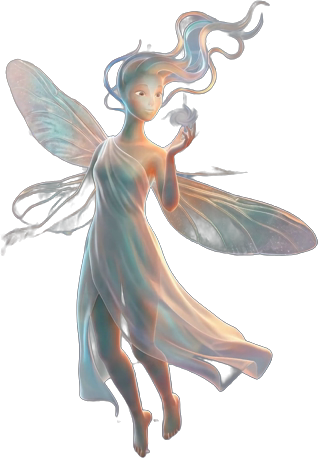
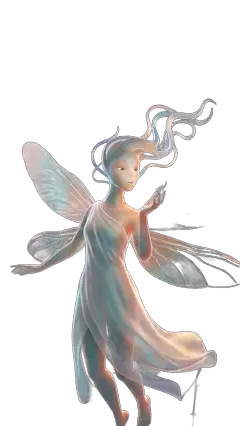
Juno on the phone: play her real clip, not a zooming still (#228)
Drive her real motion with an animated true-alpha WebP (AI-matted idle loop from the packed colour+matte clip) played by expo-image, which handles animated WebP with transparency on iOS and Android. Dropped the scale/turn breathe (the zoom); kept aura + sparkles + gentle float as ambient motion. Reduce-motion holds her on a matching-aspect still poster.

diff --git a/phone-app/src/ui/components/Juno.tsx b/phone-app/src/ui/components/Juno.tsx
@@ -1,27 +1,24 @@
 // Juno.tsx
-// Juno — the DreamLayer assistant — rendered "alive" on the phone.
+// Juno — the DreamLayer assistant — alive on the phone.
 //
-// The web build composites a packed color+matte video to a canvas for true
-// transparency (assets/juno/juno.js). React Native has no <video> compositor,
-// so here she's a transparent PNG (assets/juno.png, AI-matted full body) that
-// we make *feel* living with RN Animated: a slow float bob, a breathing scale,
-// a soft turning drift, a pulsing aura behind her, and a few rising sparkles.
-// Everything runs on the native driver (transform/opacity only) so it stays
-// smooth and never blocks JS.
+// She's a real animated clip, not a still: assets/juno.webp is an animated,
+// true-alpha WebP (her AI-matted idle loop — she drifts, her wings and hair and
+// dress move) played by expo-image, which handles animated WebP with
+// transparency on both iOS and Android. Around her we keep a soft, state-tinted
+// aura and a few rising sparkles, plus a gentle float — the *ambient* motion,
+// while the clip itself carries her performance.
 //
-// Reduce-motion (AccessibilityInfo) → she holds still with a faint steady aura.
-// `state` (idle | thinking | success) tints the aura and her glow, mirroring
-// the web sprite's data-state.
+// Reduce-motion (AccessibilityInfo) → she holds still on the first frame
+// (assets/juno.png) with a faint steady aura, and nothing loops.
+// `state` (idle | thinking | success) tints the aura and her glow.
 //
-//   <Juno size={180} state="thinking" />
-//
-// New Architecture (RN 0.81): Animated.loop/sequence/parallel + useNativeDriver
-// are unchanged; Easing is re-exported from react-native.
+//   <Juno size={135} state="thinking" />
 import React, { useEffect, useMemo, useRef, useState } from "react";
 import {
-  View, Animated, Easing, StyleSheet, AccessibilityInfo, Platform,
+  View, Animated, Easing, StyleSheet, AccessibilityInfo, Platform, Image as RNImage,
   type ViewStyle, type StyleProp,
 } from "react-native";
+import { Image as ExpoImage } from "expo-image";
 import { colors } from "../theme/colors";
 
 export type JunoState = "idle" | "thinking" | "success";
@@ -44,8 +41,11 @@ const SPARKS = [
   { x: 0.08, y: 0.48, r: 2.2, delay: 300,  rise: 16, dur: 3600 },
 ];
 
+const ANIM = require("../../../assets/juno.webp");   // animated true-alpha loop
+const STILL = require("../../../assets/juno.png");    // first-frame poster
+
 export function Juno({
-  size = 180,
+  size = 135,
   state = "idle",
   style,
 }: {
@@ -54,7 +54,7 @@ export function Juno({
   style?: StyleProp<ViewStyle>;
 }) {
   const aura = AURA_BY_STATE[state] ?? colors.accentMemory;
-  const h = Math.round(size * 458 / 318);   // preserve the matte's aspect ratio
+  const h = Math.round(size * 426 / 240);   // the clip's aspect (poster matches)
 
   const [reduce, setReduce] = useState(false);
   useEffect(() => {
@@ -64,30 +64,17 @@ export function Juno({
     return () => { alive = false; sub?.remove?.(); };
   }, []);
 
-  // Motion values — created once, driven by loops below.
-  const float   = useRef(new Animated.Value(0)).current;  // 0..1 bob
-  const breathe = useRef(new Animated.Value(0)).current;  // 0..1 scale
-  const turn    = useRef(new Animated.Value(0)).current;  // -1..1 sway
-  const auraA   = useRef(new Animated.Value(0.35)).current;
-  const sparks  = useMemo(() => SPARKS.map((s) => ({ ...s, v: new Animated.Value(0) })), []);
+  // Ambient motion values — the clip carries her body; these carry the mood.
+  const float  = useRef(new Animated.Value(0)).current;   // 0..1 gentle bob
+  const auraA  = useRef(new Animated.Value(0.35)).current;
+  const sparks = useMemo(() => SPARKS.map((s) => ({ ...s, v: new Animated.Value(0) })), []);
 
   useEffect(() => {
-    if (reduce) {
-      float.setValue(0.5); breathe.setValue(0.5); turn.setValue(0); auraA.setValue(0.28);
-      return;
-    }
-    const pingpong = (v: Animated.Value, to: number, dur: number) =>
-      Animated.loop(Animated.sequence([
-        Animated.timing(v, { toValue: to, duration: dur, easing: Easing.inOut(Easing.sin), useNativeDriver: true }),
-        Animated.timing(v, { toValue: 0,  duration: dur, easing: Easing.inOut(Easing.sin), useNativeDriver: true }),
-      ]));
-
+    if (reduce) { float.setValue(0.5); auraA.setValue(0.26); return; }
     const loops = [
-      pingpong(float, 1, 2600),
-      pingpong(breathe, 1, 3300),
       Animated.loop(Animated.sequence([
-        Animated.timing(turn, { toValue: 1,  duration: 4200, easing: Easing.inOut(Easing.sin), useNativeDriver: true }),
-        Animated.timing(turn, { toValue: -1, duration: 4200, easing: Easing.inOut(Easing.sin), useNativeDriver: true }),
+        Animated.timing(float, { toValue: 1, duration: 3200, easing: Easing.inOut(Easing.sin), useNativeDriver: true }),
+        Animated.timing(float, { toValue: 0, duration: 3200, easing: Easing.inOut(Easing.sin), useNativeDriver: true }),
       ])),
       Animated.loop(Animated.sequence([
         Animated.timing(auraA, { toValue: 0.5,  duration: 2600, easing: Easing.inOut(Easing.sin), useNativeDriver: true }),
@@ -101,17 +88,17 @@ export function Juno({
     ];
     loops.forEach((l) => l.start());
     return () => loops.forEach((l) => l.stop());
-  }, [reduce, float, breathe, turn, auraA, sparks]);
+  }, [reduce, float, auraA, sparks]);
 
-  const translateY = float.interpolate({ inputRange: [0, 1], outputRange: [6, -10] });
-  const scale      = breathe.interpolate({ inputRange: [0, 1], outputRange: [0.99, 1.02] });
-  const rotate     = turn.interpolate({ inputRange: [-1, 1], outputRange: ["-2.2deg", "2.2deg"] });
-  const translateX = turn.interpolate({ inputRange: [-1, 1], outputRange: [-4, 4] });
+  const translateY = float.interpolate({ inputRange: [0, 1], outputRange: [5, -6] });
+
+  const glow = Platform.OS === "ios"
+    ? { shadowColor: aura, shadowOpacity: state === "idle" ? 0.3 : 0.5, shadowRadius: 18, shadowOffset: { width: 0, height: 0 } }
+    : null;
 
   return (
     <View style={[{ width: size, height: h, alignItems: "center", justifyContent: "center" }, style]}>
-      {/* Aura — three soft concentric glows so the bloom reads on Android too
-          (where shadowRadius doesn't paint). Pulses with auraA. */}
+      {/* Aura — three soft concentric glows so the bloom reads on Android too. */}
       <Animated.View pointerEvents="none" style={[StyleSheet.absoluteFill, styles.center, { opacity: auraA }]}>
         <View style={[styles.glow, { width: size * 0.92, height: size * 0.92, borderRadius: size, backgroundColor: aura, opacity: 0.16 }]} />
         <View style={[styles.glow, { width: size * 0.62, height: size * 0.62, borderRadius: size, backgroundColor: aura, opacity: 0.20 }]} />
@@ -138,19 +125,13 @@ export function Juno({
         );
       })}
 
-      {/* Juno herself. */}
-      <Animated.Image
-        source={require("../../../assets/juno.png")}
-        accessibilityLabel="Juno, the DreamLayer assistant"
-        resizeMode="contain"
-        style={{
-          width: size, height: h,
-          transform: [{ translateY }, { translateX }, { rotate }, { scale }],
-          ...(Platform.OS === "ios"
-            ? { shadowColor: aura, shadowOpacity: state === "idle" ? 0.35 : 0.55, shadowRadius: 18, shadowOffset: { width: 0, height: 0 } }
-            : null),
-        }}
-      />
+      {/* Juno herself — the animated clip, gently floating. Still poster when
+          reduce-motion is on. */}
+      <Animated.View style={{ transform: [{ translateY }], ...(glow || {}) }}>
+        {reduce
+          ? <RNImage source={STILL} accessibilityLabel="Juno, the DreamLayer assistant" resizeMode="contain" style={{ width: size, height: h }} />
+          : <ExpoImage source={ANIM} accessibilityLabel="Juno, the DreamLayer assistant" contentFit="contain" autoplay style={{ width: size, height: h }} />}
+      </Animated.View>
     </View>
   );
 }

diff --git a/phone-app/app/onboarding.tsx b/phone-app/app/onboarding.tsx
@@ -81,7 +81,7 @@ export default function Onboarding() {
           {isPairStep
             ? <HaloPairingRing scanning={!connected} />
             : step.id === "welcome"
-              ? <Juno size={135} state="idle" />
+              ? <Juno size={112} state="idle" />
               : <StepGlyph stepId={step.id} accent={accent} />}
         </View>
         <Animated.View style={[styles.copy, { opacity: fadeAnim, transform: [{ translateY: slideAnim }] }]}>